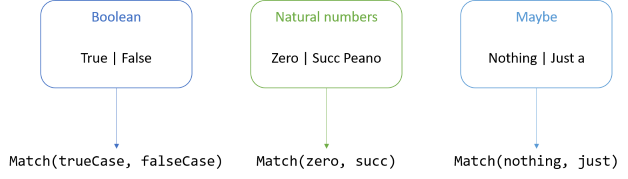
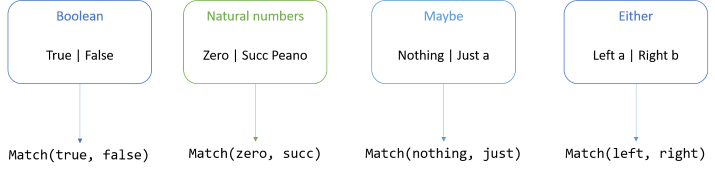
Added article on Church-encoded payment types

diff --git a/_posts/2018-06-18-church-encoded-payment-types.html b/_posts/2018-06-18-church-encoded-payment-types.html
@@ -1,7 +1,7 @@
 ---
 layout: post
 title: "Church-encoded payment types"
-date: 2018-01-19 7:41 UTC
+date: 2018-06-18 12:04 UTC
 tags: [Software Design]
 ---
 {% include JB/setup %}
@@ -11,7 +11,7 @@ tags: [Software Design]
 		<em>How to translate a domain-specific sum type into a Church-encoded C# API. An article for object-oriented developers.</em>
 	</p>
 	<p>
-		This article is part of <a href="">a series of articles about Church encoding</a>. In the previous articles, you've seen <a href="">how to implement Boolean logic without Boolean primitives</a>, as well as <a href="">how to model natural numbers</a> and <a href="">how to implement a Maybe container</a>. Common to all three examples is that they're based on <a href="https://en.wikipedia.org/wiki/Tagged_union">sum types</a> with exactly two mutually exclusive cases.
+		This article is part of <a href="http://blog.ploeh.dk/2018/05/22/church-encoding">a series of articles about Church encoding</a>. In the previous articles, you've seen <a href="http://blog.ploeh.dk/2018/05/24/church-encoded-boolean-values">how to implement Boolean logic without Boolean primitives</a>, as well as <a href="http://blog.ploeh.dk/2018/05/28/church-encoded-natural-numbers">how to model natural numbers</a>, <a href="http://blog.ploeh.dk/2018/06/04/church-encoded-maybe">how to implement a Maybe container</a>, and <a href="http://blog.ploeh.dk/2018/06/11/church-encoded-either">how to implement an Either container</a>. Common to all four examples is that they're based on <a href="https://en.wikipedia.org/wiki/Tagged_union">sum types</a> with exactly two mutually exclusive cases.
 	</p>
 	<p>
 		<img src="/content/binary/binary-sum-types-and-matching-methods.png" alt="Three binary sum types, and their corresponding match methods.">
@@ -19,9 +19,9 @@ tags: [Software Design]
 	<p>
 		You may already have noticed that all three translate to <code>Match</code> methods that take two arguments. The translation is so mechanical that you could automate it. Each case in a sum type becomes an argument in a <code>Match</code> method. In this article, you'll see an example of a domain-specific sum type with three cases, translated to Church-encoding.
 	</p>
-	<p>
-		<strong>A payment type model in F#</strong>
-	</p>
+	<h3 id="62f77838e7724b8e8b7b3e5361ae13a7">
+		A payment type model in F# <a href="#62f77838e7724b8e8b7b3e5361ae13a7" title="permalink">#</a>
+	</h3>
 	<p>
 		In <a href="http://blog.ploeh.dk/2016/11/28/easy-domain-modelling-with-types">a previous article</a> I described a particular business problem that was elegantly addressed with a discriminated union (sum type) in F#:
 	</p>
@@ -39,11 +39,11 @@ tags: [Software Design]
 	<p>
 		One task that is easily addressed with the above <code>PaymentType</code> discriminated union is that you can translate the data to JSON in a type-safe manner. The compiler will tell you whether or not you've handled all three cases.
 	</p>
+	<h3 id="bd590f5f56f7442ca2eddc89ffe07fea">
+		Auxiliary C# classes <a href="#bd590f5f56f7442ca2eddc89ffe07fea" title="permalink">#</a>
+	</h3>
 	<p>
-		<strong>Auxiliary C# classes</strong>
-	</p>
-	<p>
-		You can Church-encode <code>PaymentType</code> just like Boolean values, natural numbers, and Maybe. Before you do that, however, you need to define the input types involved in each case. These are normal classes, although I prefer to make them immutable:
+		You can Church-encode <code>PaymentType</code> just like Boolean values, natural numbers, Maybe, and Either. Before you do that, however, you need to define the input types involved in each case. These are normal classes, although I prefer to make them immutable:
 	</p>
 	<p>
 		<pre><span style="color:blue;">public</span>&nbsp;<span style="color:blue;">class</span>&nbsp;<span style="color:#2b91af;">PaymentService</span>
@@ -77,9 +77,9 @@ tags: [Software Design]
 	<p>
 		These are straightforward translations of the F# <code>PaymentService</code> record type, and the tuple associated with the <code>Child</code> case. In a real code base, I'd override <code>Equals</code> for both classes in order to turn them into proper <a href="https://en.wikipedia.org/wiki/Value_object">Value Objects</a>, but in order to keep the size of the code down, I omitted doing that here.
 	</p>
-	<p>
-		<strong>Church-encoded payment type</strong>
-	</p>
+	<h3 id="447c7cd04d0447ad99a034972134722b">
+		Church-encoded payment type <a href="#447c7cd04d0447ad99a034972134722b" title="permalink">#</a>
+	</h3>
 	<p>
 		You can now translate the <code>PaymentType</code> F# discriminated union to a Church-encoded API in C#, starting with the interface:
 	</p>
@@ -93,7 +93,7 @@ tags: [Software Design]
 }</pre>
 	</p>
 	<p>
-		Since there's three cases in the sum type, that turns into a <code>Match</code> method with three arguments, each corresponding to one of the cases. As was also the case for the previous articles' <code>INaturalNumber</code> and <code>IMaybe&lt;T&gt;</code> interfaces, the data associated with each case is modelled as a function from the data to the generic return type <code>T</code>.
+		Since there's three cases in the sum type, that turns into a <code>Match</code> method with three arguments, each corresponding to one of the cases. As was also the case for the previous articles' <code>INaturalNumber</code>, <code>IMaybe&lt;T&gt;</code>, and <code>IEither&lt;L, R&gt;</code> interfaces, the data associated with each case is modelled as a function from the data to the generic return type <code>T</code>.
 	</p>
 	<p>
 		Again, following the recipe implied by the previous examples, you should now add a concrete implementation of the <code>IPaymentType</code> interface for each case. It's natural to start with the first argument to the <code>Match</code> method, <em>individual:</em>
@@ -113,12 +113,12 @@ tags: [Software Design]
 &nbsp;&nbsp;&nbsp;&nbsp;&nbsp;&nbsp;&nbsp;&nbsp;<span style="color:#2b91af;">Func</span>&lt;<span style="color:#2b91af;">PaymentService</span>,&nbsp;<span style="color:#2b91af;">T</span>&gt;&nbsp;parent,
 &nbsp;&nbsp;&nbsp;&nbsp;&nbsp;&nbsp;&nbsp;&nbsp;<span style="color:#2b91af;">Func</span>&lt;<span style="color:#2b91af;">ChildPaymentService</span>,&nbsp;<span style="color:#2b91af;">T</span>&gt;&nbsp;child)
 &nbsp;&nbsp;&nbsp;&nbsp;{
-&nbsp;&nbsp;&nbsp;&nbsp;&nbsp;&nbsp;&nbsp;&nbsp;<span style="color:blue;">return</span>&nbsp;individual(<span style="color:blue;">this</span>.paymentService);
+&nbsp;&nbsp;&nbsp;&nbsp;&nbsp;&nbsp;&nbsp;&nbsp;<span style="color:blue;">return</span>&nbsp;individual(paymentService);
 &nbsp;&nbsp;&nbsp;&nbsp;}
 }</pre>
 	</p>
 	<p>
-		The <code>Individual</code> class composes a <code>PaymentService</code> value, which it passes as the argument to the <code>individual</code> function argument when <code>Match</code> is called. As you've seen in the previous articles, a particular implementation uses only one of the method arguments, so the two other arguments, <code>parent</code> and <code>child</code>, are simply ignored.
+		The <code>Individual</code> class <a href="https://en.wikipedia.org/wiki/Adapter_pattern">adapts</a> a <code>PaymentService</code> value, which it passes as the argument to the <code>individual</code> function argument when <code>Match</code> is called. As you've seen in the previous articles, a particular implementation uses only one of the method arguments, so the two other arguments, <code>parent</code> and <code>child</code>, are simply ignored.
 	</p>
 	<p>
 		The <em>parent</em> implementation is almost identical:
@@ -138,12 +138,12 @@ tags: [Software Design]
 &nbsp;&nbsp;&nbsp;&nbsp;&nbsp;&nbsp;&nbsp;&nbsp;<span style="color:#2b91af;">Func</span>&lt;<span style="color:#2b91af;">PaymentService</span>,&nbsp;<span style="color:#2b91af;">T</span>&gt;&nbsp;parent,
 &nbsp;&nbsp;&nbsp;&nbsp;&nbsp;&nbsp;&nbsp;&nbsp;<span style="color:#2b91af;">Func</span>&lt;<span style="color:#2b91af;">ChildPaymentService</span>,&nbsp;<span style="color:#2b91af;">T</span>&gt;&nbsp;child)
 &nbsp;&nbsp;&nbsp;&nbsp;{
-&nbsp;&nbsp;&nbsp;&nbsp;&nbsp;&nbsp;&nbsp;&nbsp;<span style="color:blue;">return</span>&nbsp;parent(<span style="color:blue;">this</span>.paymentService);
+&nbsp;&nbsp;&nbsp;&nbsp;&nbsp;&nbsp;&nbsp;&nbsp;<span style="color:blue;">return</span>&nbsp;parent(paymentService);
 &nbsp;&nbsp;&nbsp;&nbsp;}
 }</pre>
 	</p>
 	<p>
-		The <code>Parent</code> class also composes a <code>PaymentService</code> value that it passes to a function when <code>Match</code> is called. The only difference is that it calls the <code>parent</code> function instead of the <code>individual</code> function argument.
+		The <code>Parent</code> class also adapts a <code>PaymentService</code> value that it passes to a function when <code>Match</code> is called. The only difference is that it calls the <code>parent</code> function instead of the <code>individual</code> function argument.
 	</p>
 	<p>
 		The third case is handled by the following <code>Child</code> class:
@@ -163,16 +163,16 @@ tags: [Software Design]
 &nbsp;&nbsp;&nbsp;&nbsp;&nbsp;&nbsp;&nbsp;&nbsp;<span style="color:#2b91af;">Func</span>&lt;<span style="color:#2b91af;">PaymentService</span>,&nbsp;<span style="color:#2b91af;">T</span>&gt;&nbsp;parent,
 &nbsp;&nbsp;&nbsp;&nbsp;&nbsp;&nbsp;&nbsp;&nbsp;<span style="color:#2b91af;">Func</span>&lt;<span style="color:#2b91af;">ChildPaymentService</span>,&nbsp;<span style="color:#2b91af;">T</span>&gt;&nbsp;child)
 &nbsp;&nbsp;&nbsp;&nbsp;{
-&nbsp;&nbsp;&nbsp;&nbsp;&nbsp;&nbsp;&nbsp;&nbsp;<span style="color:blue;">return</span>&nbsp;child(<span style="color:blue;">this</span>.childPaymentService);
+&nbsp;&nbsp;&nbsp;&nbsp;&nbsp;&nbsp;&nbsp;&nbsp;<span style="color:blue;">return</span>&nbsp;child(childPaymentService);
 &nbsp;&nbsp;&nbsp;&nbsp;}
 }</pre>
 	</p>
 	<p>
-		While the two other classes both compose a <code>PaymentService</code> value, a <code>Child</code> object instead composes a <code>ChildPaymentService</code> value. When <code>Match</code> is called, it calls the <code>child</code> function argument with the composed value.
+		While the two other classes both adapt a <code>PaymentService</code> value, a <code>Child</code> object instead composes a <code>ChildPaymentService</code> value. When <code>Match</code> is called, it calls the <code>child</code> function argument with the composed value.
 	</p>
-	<p>
-		<strong>Using the IPaymentType API</strong>
-	</p>
+	<h3 id="fbacd6c79ee04992a16bf6d81ecb2e3e">
+		Using the IPaymentType API <a href="#fbacd6c79ee04992a16bf6d81ecb2e3e" title="permalink">#</a>
+	</h3>
 	<p>
 		One important feature that I originally had to implement was to translate a <em>payment type</em> value into a JSON document. For the purposes of this example, imagine that you can model the desired JSON document using this <a href="https://en.wikipedia.org/wiki/Data_transfer_object">Data Transfer Object</a>:
 	</p>
@@ -220,19 +220,18 @@ tags: [Software Design]
 &nbsp;&nbsp;&nbsp;&nbsp;&nbsp;&nbsp;&nbsp;&nbsp;&nbsp;&nbsp;&nbsp;&nbsp;&nbsp;&nbsp;&nbsp;&nbsp;Name&nbsp;=&nbsp;cps.PaymentService.Name,
 &nbsp;&nbsp;&nbsp;&nbsp;&nbsp;&nbsp;&nbsp;&nbsp;&nbsp;&nbsp;&nbsp;&nbsp;&nbsp;&nbsp;&nbsp;&nbsp;Action&nbsp;=&nbsp;cps.PaymentService.Action,
 &nbsp;&nbsp;&nbsp;&nbsp;&nbsp;&nbsp;&nbsp;&nbsp;&nbsp;&nbsp;&nbsp;&nbsp;&nbsp;&nbsp;&nbsp;&nbsp;StartRecurrent&nbsp;=&nbsp;<span style="color:blue;">new</span>&nbsp;<span style="color:#2b91af;">ChurchFalse</span>(),
-&nbsp;&nbsp;&nbsp;&nbsp;&nbsp;&nbsp;&nbsp;&nbsp;&nbsp;&nbsp;&nbsp;&nbsp;&nbsp;&nbsp;&nbsp;&nbsp;TransactionKey&nbsp;=
-&nbsp;&nbsp;&nbsp;&nbsp;&nbsp;&nbsp;&nbsp;&nbsp;&nbsp;&nbsp;&nbsp;&nbsp;&nbsp;&nbsp;&nbsp;&nbsp;&nbsp;&nbsp;&nbsp;&nbsp;<span style="color:blue;">new</span>&nbsp;<span style="color:#2b91af;">Just</span>&lt;<span style="color:blue;">string</span>&gt;(cps.OriginalTransactionKey)
+&nbsp;&nbsp;&nbsp;&nbsp;&nbsp;&nbsp;&nbsp;&nbsp;&nbsp;&nbsp;&nbsp;&nbsp;&nbsp;&nbsp;&nbsp;&nbsp;TransactionKey&nbsp;=&nbsp;<span style="color:blue;">new</span>&nbsp;<span style="color:#2b91af;">Just</span>&lt;<span style="color:blue;">string</span>&gt;(cps.OriginalTransactionKey)
 &nbsp;&nbsp;&nbsp;&nbsp;&nbsp;&nbsp;&nbsp;&nbsp;&nbsp;&nbsp;&nbsp;&nbsp;});
 }</pre>
 	</p>
 	<p>
 		Because the <code>Match</code> method takes three arguments, you have to supply a 'handler' function for each of them, and they all have to have the same return type. In this case they all return a new <code>PaymentJsonModel</code> object, so that requirement is fulfilled. All three lambda expressions simply copy over <code>Name</code> and <code>Action</code>, but they differ in the values they assign to <code>StartRecurrent</code> and <code>TransactionKey</code>.
 	</p>
+	<h3 id="465851b6143f4e75b1732bcfccdfcb28">
+		Tests <a href="#465851b6143f4e75b1732bcfccdfcb28" title="permalink">#</a>
+	</h3>
 	<p>
-		<strong>Tests</strong>
-	</p>
-	<p>
-		In order to show you that it all works, here are a few examples I wrote as <a href="https://xunit.github.io">xUnit.net</a> tests:
+		In order to show you that it all works, here's a few examples I wrote as <a href="https://xunit.github.io">xUnit.net</a> tests:
 	</p>
 	<p>
 		<pre>[<span style="color:#2b91af;">Fact</span>]
@@ -281,19 +280,19 @@ tags: [Software Design]
 	<p>
 		All three tests pass.
 	</p>
-	<p>
-		<strong>Summary</strong>
-	</p>
+	<h3 id="eceac90915cb40aab728fae7a36599d4">
+		Summary <a href="#eceac90915cb40aab728fae7a36599d4" title="permalink">#</a>
+	</h3>
 	<p>
 		The major advantage of sum types in statically typed languages is that you can <em>make illegal states unrepresentable</em> (a maxim attributed to <a href="https://twitter.com/yminsky">Yaron Minsky</a>). Specifically, in the business example of payment types shown here, I need to be able to express that only three out of four combinations of <em>start recurrent</em> and <em>original transaction key</em> is legal. Specifically, I needed to express that the combination of <em>start recurrent = true</em> and the presence of a <em>transaction key</em> is illegal. Making such an illegal state unrepresentable is easy with a sum type, but as this article has shown, you can achieve the same goal in C#.
 	</p>
 	<p>
-		With the API shown here, there are only three possible states (<code>Individual</code>, <code>Child</code>, and <code>Parent</code>). Notice that all three classes hide their data as <code>private</code> class fields, so the only way to extract that data is to call <code>Match</code>. The compiler will make sure that you handle all three cases, because you must supply a function for all three method arguments.
+		With the API shown here, there's only three possible states (<code>Individual</code>, <code>Child</code>, and <code>Parent</code>). Notice that all three classes hide their data as <code>private</code> class fields, so the only way to extract that data is to call <code>Match</code>. The compiler will make sure that you handle all three cases, because you must supply a function for all three method arguments.
 	</p>
 	<p>
 		This article concludes the little series on how to use Church-encoding in C# to create sum types. You may, however, think that it doesn't really feel object-oriented, with its heavy reliance on function arguments (e.g. <code>Func&lt;PaymentService, T&gt;</code>). It turns out, though, that with only a few refactorings, you'll come to the realisation that what you've seen here is <a href="http://blog.ploeh.dk/2018/01/08/software-design-isomorphisms">isomorphic</a> to a classic design pattern. Read on!
 	</p>
 	<p>
-		<strong>Next: </strong> From behavioural patterns to category theory.
+		<strong>Next: </strong> <a href="http://blog.ploeh.dk/2018/03/05/some-design-patterns-as-universal-abstractions">Some design patterns as universal abstractions</a>.
 	</p>
 </div>
